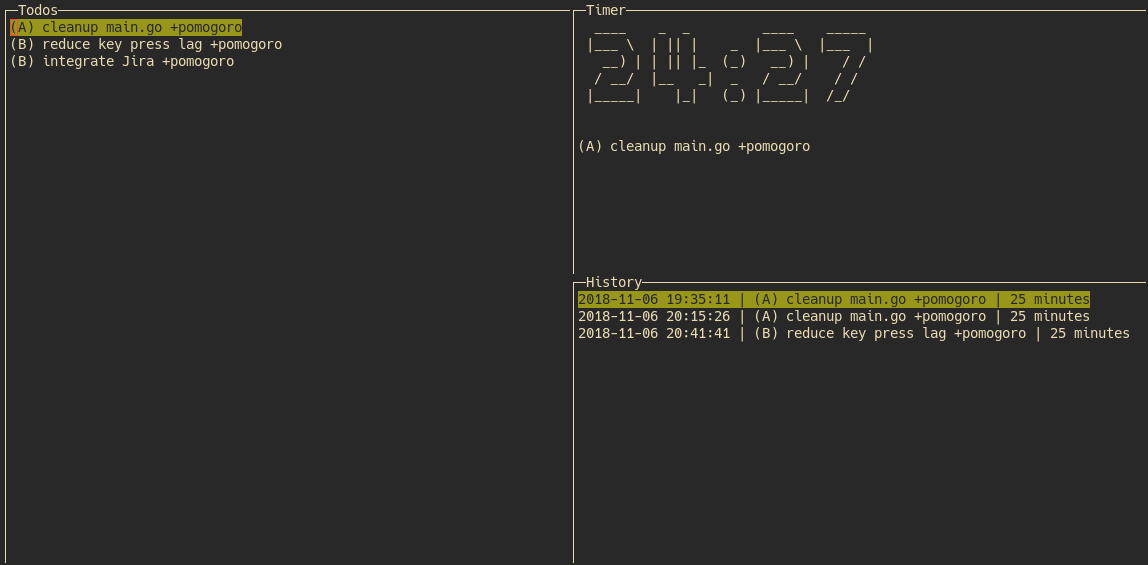
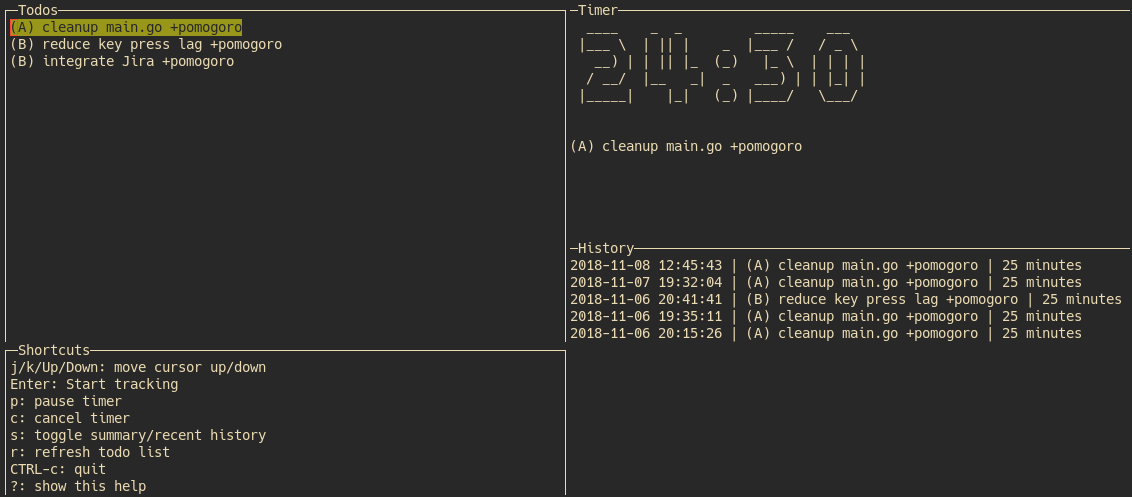
Introducing help toggle (#2)
* Introducing help toggle: fixes #1
* README.md: updated screenshot

diff --git a/main.go b/main.go
@@ -284,37 +284,35 @@ func runCui() {
 		log.Panicln(err)
 	}
 
+	if err := g.SetKeybinding("", '?', gocui.ModNone, toggleHelpWindow); err != nil {
+		log.Panicln(err)
+	}
+
 	if err := g.SetKeybinding("", gocui.KeyCtrlC, gocui.ModNone, quit); err != nil {
 		log.Panicln(err)
 	}
+
 	if err := g.MainLoop(); err != nil && err != gocui.ErrQuit {
 		log.Panicln(err)
 	}
 }
 
+var displayingHelp bool
+
+func toggleHelpWindow(g *gocui.Gui, v *gocui.View) error {
+	v, _ = g.View("help")
+	if !displayingHelp {
+		_, _ = g.SetViewOnTop("help")
+		displayingHelp = true
+	} else {
+		_, _ = g.SetViewOnBottom("help")
+		displayingHelp = false
+	}
+	return nil
+}
+
 func layout(g *gocui.Gui) error {
 	maxX, maxY := g.Size()
-	if v, err := g.SetView("todos", 0, 0, maxX/2, maxY); err != nil {
-		if err != gocui.ErrUnknownView {
-			return err
-		}
-
-		v.Highlight = true
-		v.Wrap = true
-		v.Title = "Todos"
-		v.SelBgColor = gocui.ColorGreen
-		v.SelFgColor = gocui.ColorBlack
-
-		err := updateTodoView(g, v)
-		if err != nil {
-			return err
-		}
-
-		if _, err = setCurrentViewOnTop(g, "todos"); err != nil {
-			return err
-		}
-	}
-
 	if v, err := g.SetView("timer", maxX/2, 0, maxX, maxY/2); err != nil {
 		if err != gocui.ErrUnknownView {
 			return err
@@ -338,6 +336,45 @@ func layout(g *gocui.Gui) error {
 		v.SelFgColor = gocui.ColorBlack
 		v.Wrap = true
 		updateRecentLog(g)
+	}
+	if v, err := g.SetView("help", 0, maxY-9, maxX/2, maxY); err != nil {
+		if err != gocui.ErrUnknownView {
+			return err
+		}
+
+		v.Wrap = true
+		v.Title = "Shortcuts"
+		text := `
+j/k/Up/Down: move cursor up/down
+Enter: Start tracking
+p: pause timer
+c: cancel timer
+s: toggle summary/recent history
+r: refresh todo list
+CTRL-c: quit
+?: show this help
+		`
+		fmt.Fprintln(v, text)
+	}
+	if v, err := g.SetView("todos", 0, 0, maxX/2, maxY); err != nil {
+		if err != gocui.ErrUnknownView {
+			return err
+		}
+
+		v.Highlight = true
+		v.Wrap = true
+		v.Title = "Todos"
+		v.SelBgColor = gocui.ColorGreen
+		v.SelFgColor = gocui.ColorBlack
+
+		err := updateTodoView(g, v)
+		if err != nil {
+			return err
+		}
+
+		if _, err = setCurrentViewOnTop(g, "todos"); err != nil {
+			return err
+		}
 	}
 
 	return nil

diff --git a/README.md b/README.md
@@ -72,6 +72,7 @@ PomodoroDuration = 25 # in minutes
 | `c`           | Cancel current timer (task or break)                       |
 | `s`           | Toggle between summary per task per day and recent history |
 | `r`           | Refresh todo list                                          |
+| `?`           | Toggle: show keyboard bindings                             |
 | `CTRL-c`      | quit                                                       |
 
 ## Todos
